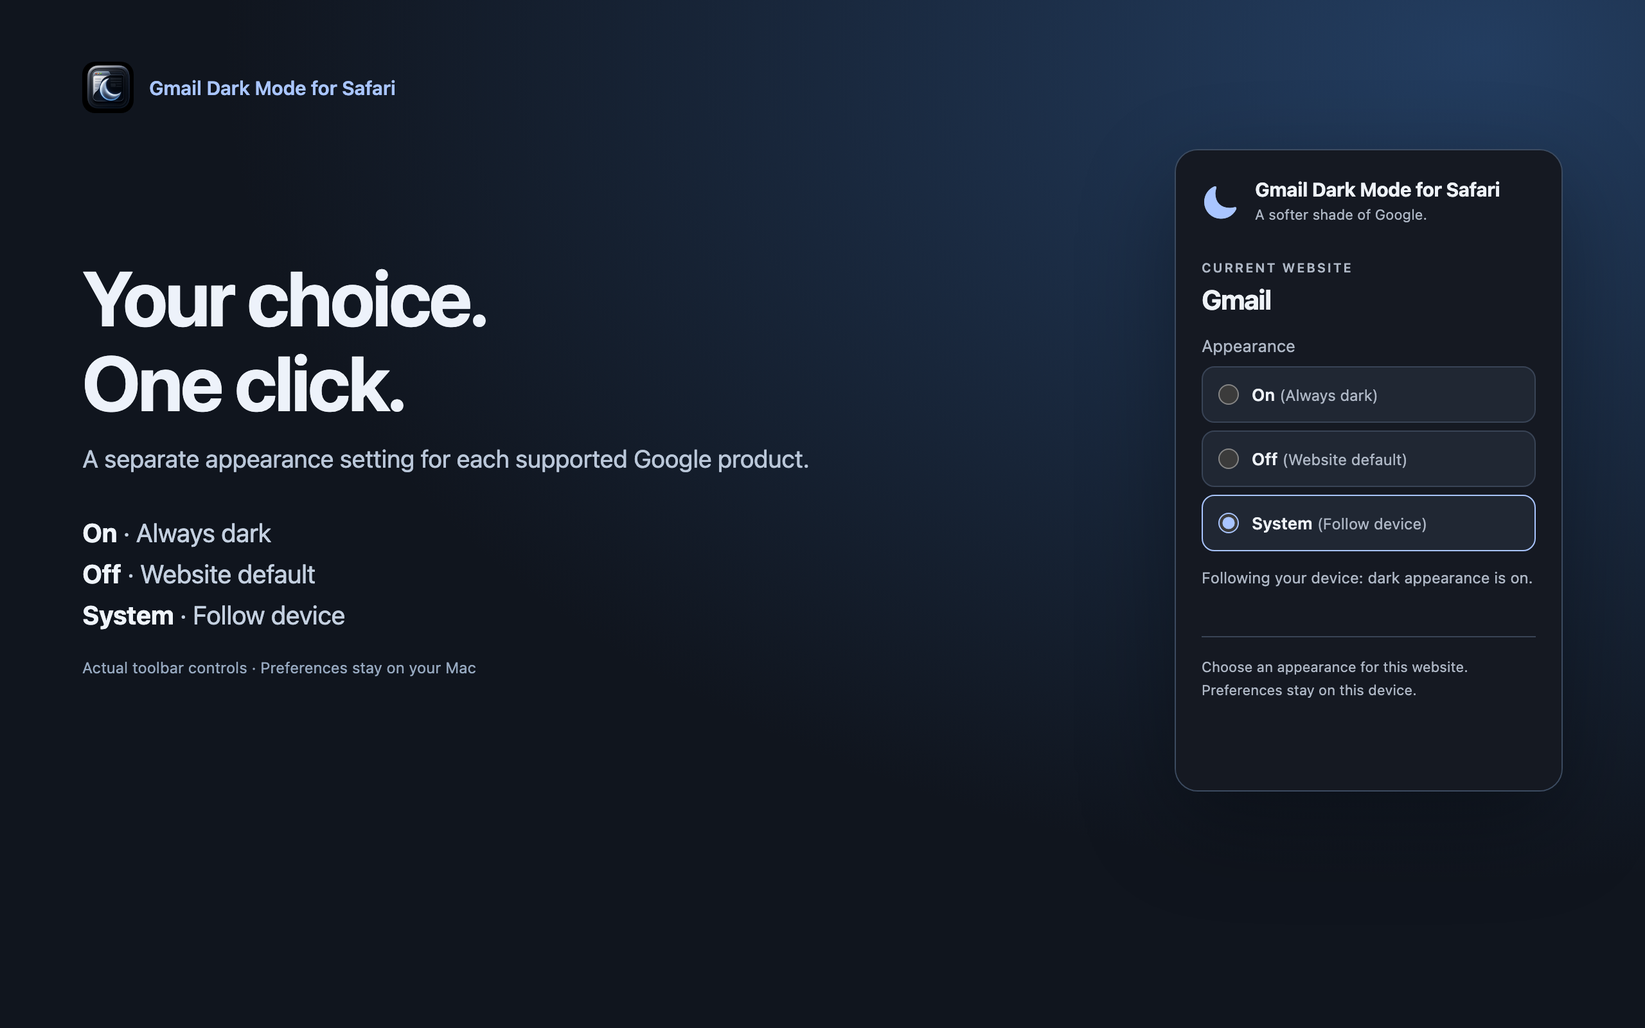
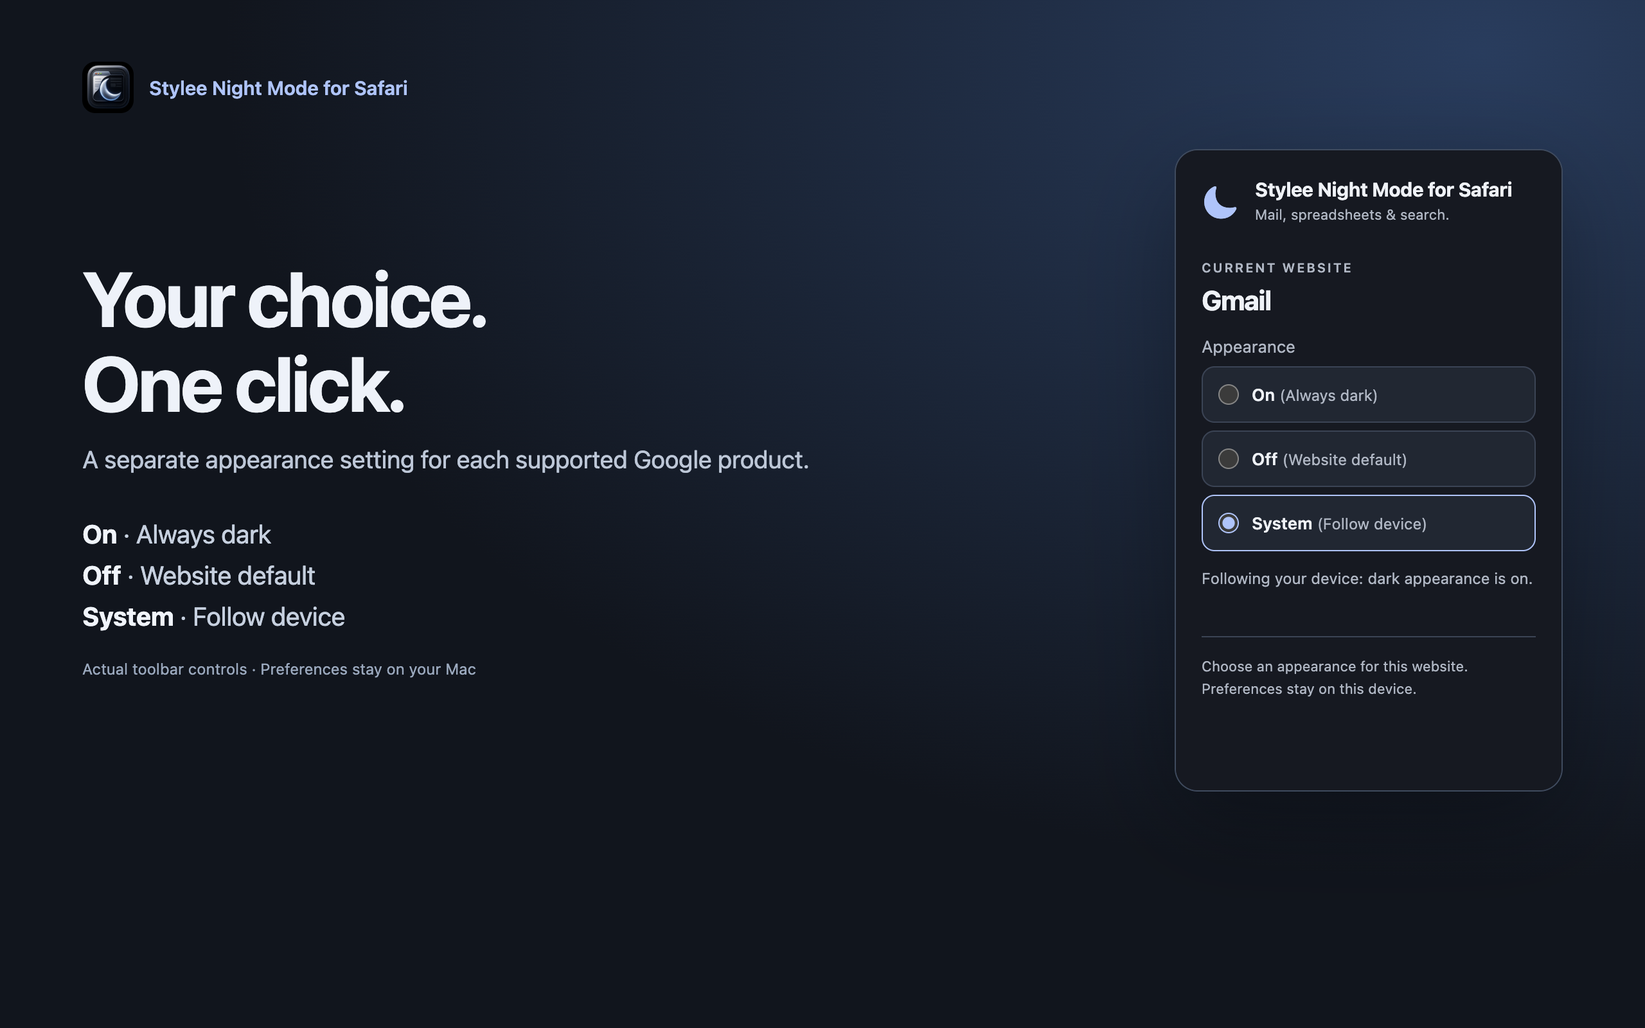
Rename app to Stylee Night Mode for Safari

diff --git a/site/index.html b/site/index.html
@@ -1,2 +1,2 @@
 <!doctype html>
-<html lang="en"><meta charset="utf-8"><meta name="viewport" content="width=device-width,initial-scale=1"><title>Gmail Dark Mode for Safari — Help & Support</title><meta name="description" content="Dark appearance for Gmail, Google Sheets, and Google Search in Safari. Setup, support, and privacy information."><link rel="stylesheet" href="style.css"><main><nav><a href="./">Help &amp; Support</a><a href="privacy.html">Privacy</a><a href="./#download">Download</a></nav><p class="eyebrow">For macOS · Free</p><h1>Gmail Dark Mode<br>for Safari</h1><p>A softer appearance for Gmail, Google Sheets, and Google Search.</p><section id="download" class="card" aria-labelledby="download-title"><h2 id="download-title">Get the extension</h2><p>Free for Mac. The public download will be available after release.</p><!-- APP_STORE_DOWNLOAD: Replace the disabled button with an anchor using the verified live App Store URL at release. See docs/support-deployment.md. --><button class="download-button" type="button" disabled aria-describedby="download-status">Coming soon on the Mac App Store</button><p id="download-status">Not available to download yet. Check back here for the App Store link.</p></section><h2>Get started</h2><ol><li>Install the app from the Mac App Store and open it.</li><li>Click <strong>Open Safari Extension Settings</strong>. In Safari Settings → Extensions, enable <strong>Gmail Dark Mode for Safari</strong>.</li><li>Allow website access for Gmail, Google Sheets, and Google Search. Safari may also request access to Google account/app-picker frames used inside these sites.</li><li>Reload any pages that were already open. Click the extension icon in Safari’s toolbar to choose an appearance.</li></ol><div class="card"><strong>On</strong> — Always dark.<br><strong>Off</strong> — Restore the website’s own appearance.<br><strong>System</strong> — Follow your Mac’s appearance setting.</div><p>Each supported product has its own choice. Off does not force a light theme. Preferences are stored on this Mac.</p><h2>What it changes</h2><p>Gmail’s inbox, message reading view, and compose window; Google Sheets’ controls and grid; and Google Search’s results and suggestions.</p><p>Message foreground and background colors are adjusted together. Photos and image-backed sections retain their original appearance. Some dark logos may remain dark. Sheets’ displayed colors change, while cell values and document formatting remain unchanged.</p><h2>Requirements</h2><p>macOS 26 or later and Safari 26 or later. This release supports these three Google products, not every website. A Google account is needed for Gmail and private spreadsheets.</p><h2>Troubleshooting</h2><p>If a page stays unchanged, check website access in Safari Settings → Extensions, then reload the page. If the toolbar popup cannot connect, try <strong>Retry connection</strong>, or open the site in a fresh tab. Use Off for a page whose original appearance you prefer.</p><p>To stop using the extension, disable it in Safari Settings → Extensions. Remove the containing app to uninstall it.</p><h2>Contact support</h2><p>Email <a href="mailto:hello@trystylee.com">hello@trystylee.com</a> with your macOS/Safari versions, the affected Google product, and steps to reproduce the issue. Please redact message contents, names, account details, and spreadsheet data from any screenshots.</p><footer>© 2026 Stylee, Inc. · <a href="mailto:hello@trystylee.com">hello@trystylee.com</a><p>Independent software. Not affiliated with or endorsed by Google or Apple. Gmail and Safari are trademarks of their respective owners.</p></footer></main></html>
+<html lang="en"><meta charset="utf-8"><meta name="viewport" content="width=device-width,initial-scale=1"><title>Stylee Night Mode for Safari — Help & Support</title><meta name="description" content="Dark appearance for Gmail, Google Sheets, and Google Search in Safari. Setup, support, and privacy information."><link rel="stylesheet" href="style.css"><main><nav><a href="./">Help &amp; Support</a><a href="privacy.html">Privacy</a><a href="./#download">Download</a></nav><p class="eyebrow">For macOS · Free</p><h1>Stylee Night Mode<br>for Safari</h1><p>A softer appearance for Gmail, Google Sheets, and Google Search.</p><section id="download" class="card" aria-labelledby="download-title"><h2 id="download-title">Get the extension</h2><p>Free for Mac. The public download will be available after release.</p><!-- APP_STORE_DOWNLOAD: Replace the disabled button with an anchor using the verified live App Store URL at release. See docs/support-deployment.md. --><button class="download-button" type="button" disabled aria-describedby="download-status">Coming soon on the Mac App Store</button><p id="download-status">Not available to download yet. Check back here for the App Store link.</p></section><h2>Get started</h2><ol><li>Install the app from the Mac App Store and open it.</li><li>Click <strong>Open Safari Extension Settings</strong>. In Safari Settings → Extensions, enable <strong>Stylee Night Mode for Safari</strong>.</li><li>Allow website access for Gmail, Google Sheets, and Google Search. Safari may also request access to Google account/app-picker frames used inside these sites.</li><li>Reload any pages that were already open. Click the extension icon in Safari’s toolbar to choose an appearance.</li></ol><div class="card"><strong>On</strong> — Always dark.<br><strong>Off</strong> — Restore the website’s own appearance.<br><strong>System</strong> — Follow your Mac’s appearance setting.</div><p>Each supported product has its own choice. Off does not force a light theme. Preferences are stored on this Mac.</p><h2>What it changes</h2><p>Gmail’s inbox, message reading view, and compose window; Google Sheets’ controls and grid; and Google Search’s results and suggestions.</p><p>Message foreground and background colors are adjusted together. Photos and image-backed sections retain their original appearance. Some dark logos may remain dark. Sheets’ displayed colors change, while cell values and document formatting remain unchanged.</p><h2>Requirements</h2><p>macOS 26 or later and Safari 26 or later. This release supports these three Google products, not every website. A Google account is needed for Gmail and private spreadsheets.</p><h2>Troubleshooting</h2><p>If a page stays unchanged, check website access in Safari Settings → Extensions, then reload the page. If the toolbar popup cannot connect, try <strong>Retry connection</strong>, or open the site in a fresh tab. Use Off for a page whose original appearance you prefer.</p><p>To stop using the extension, disable it in Safari Settings → Extensions. Remove the containing app to uninstall it.</p><h2>Contact support</h2><p>Email <a href="mailto:hello@trystylee.com">hello@trystylee.com</a> with your macOS/Safari versions, the affected Google product, and steps to reproduce the issue. Please redact message contents, names, account details, and spreadsheet data from any screenshots.</p><footer>© 2026 Stylee, Inc. · <a href="mailto:hello@trystylee.com">hello@trystylee.com</a><p>Independent software. Not affiliated with or endorsed by Google or Apple. Gmail and Safari are trademarks of their respective owners.</p></footer></main></html>

diff --git a/site/privacy.html b/site/privacy.html
@@ -1,2 +1,2 @@
 <!doctype html>
-<html lang="en"><meta charset="utf-8"><meta name="viewport" content="width=device-width,initial-scale=1"><title>Privacy — Gmail Dark Mode for Safari</title><meta name="description" content="Dark appearance for Gmail, Google Sheets, and Google Search in Safari. Setup, support, and privacy information."><link rel="stylesheet" href="style.css"><main><nav><a href="./">Help &amp; Support</a><a href="privacy.html">Privacy</a><a href="./#download">Download</a></nav><p class="eyebrow">Privacy policy · September 9, 2026</p><h1>Your browsing stays<br>on your Mac.</h1><p>Gmail Dark Mode for Safari is provided by Stylee, Inc. This policy explains how the app, extension, and support website handle information.</p><h2>The app and extension</h2><p>The app and extension do not collect or transmit browsing history, email contents, spreadsheet data, account details, analytics, or diagnostics. They do not include advertising, trackers, or remote executable code.</p><p>The extension works locally. It inspects page elements and their computed colors to change appearance. Gmail message text is not recorded or sent anywhere. Images and image-backed sections keep their original appearance.</p><h2>Preferences</h2><p>Your appearance choices are stored in Safari extension-local storage on this device. They are not sent to us or synced through a service operated by us. Choosing Off restores the website’s appearance. Uninstalling the app/extension removes the extension; Safari manages removal of its local data.</p><h2>Website permissions</h2><p>Access to Gmail, Google Sheets, and Google Search allows the extension to apply styles. Access to embedded Google account/app-picker frames is used only for supported pages. Standalone Google account pages are not restyled. The extension does not change your account, send mail, or edit spreadsheet values.</p><h2>This support website</h2><p>This static site uses no analytics, cookies, or tracking scripts. It is hosted on GitHub Pages. GitHub may process technical request information, such as IP addresses, under <a href="https://docs.github.com/en/site-policy/privacy-policies/github-general-privacy-statement">GitHub’s privacy statement</a>.</p><h2>When you contact us</h2><p>If you email support, we receive your email address and whatever you choose to include. We use that information to answer your request and investigate the issue. Please avoid sending private mailbox or spreadsheet contents. You may request deletion of support correspondence by emailing us.</p><h2>Other websites and services</h2><p>Google services and Apple’s App Store operate under their own privacy policies. This extension does not change those services’ data practices.</p><h2>Changes and contact</h2><p>We will update this page if our practices change. Questions or deletion requests: <a href="mailto:hello@trystylee.com">hello@trystylee.com</a>.</p><footer>© 2026 Stylee, Inc. · <a href="mailto:hello@trystylee.com">hello@trystylee.com</a><p>Independent software. Not affiliated with or endorsed by Google or Apple. Gmail and Safari are trademarks of their respective owners.</p></footer></main></html>
+<html lang="en"><meta charset="utf-8"><meta name="viewport" content="width=device-width,initial-scale=1"><title>Privacy — Stylee Night Mode for Safari</title><meta name="description" content="Dark appearance for Gmail, Google Sheets, and Google Search in Safari. Setup, support, and privacy information."><link rel="stylesheet" href="style.css"><main><nav><a href="./">Help &amp; Support</a><a href="privacy.html">Privacy</a><a href="./#download">Download</a></nav><p class="eyebrow">Privacy policy · September 9, 2026</p><h1>Your browsing stays<br>on your Mac.</h1><p>Stylee Night Mode for Safari is provided by Stylee, Inc. This policy explains how the app, extension, and support website handle information.</p><h2>The app and extension</h2><p>The app and extension do not collect or transmit browsing history, email contents, spreadsheet data, account details, analytics, or diagnostics. They do not include advertising, trackers, or remote executable code.</p><p>The extension works locally. It inspects page elements and their computed colors to change appearance. Gmail message text is not recorded or sent anywhere. Images and image-backed sections keep their original appearance.</p><h2>Preferences</h2><p>Your appearance choices are stored in Safari extension-local storage on this device. They are not sent to us or synced through a service operated by us. Choosing Off restores the website’s appearance. Uninstalling the app/extension removes the extension; Safari manages removal of its local data.</p><h2>Website permissions</h2><p>Access to Gmail, Google Sheets, and Google Search allows the extension to apply styles. Access to embedded Google account/app-picker frames is used only for supported pages. Standalone Google account pages are not restyled. The extension does not change your account, send mail, or edit spreadsheet values.</p><h2>This support website</h2><p>This static site uses no analytics, cookies, or tracking scripts. It is hosted on GitHub Pages. GitHub may process technical request information, such as IP addresses, under <a href="https://docs.github.com/en/site-policy/privacy-policies/github-general-privacy-statement">GitHub’s privacy statement</a>.</p><h2>When you contact us</h2><p>If you email support, we receive your email address and whatever you choose to include. We use that information to answer your request and investigate the issue. Please avoid sending private mailbox or spreadsheet contents. You may request deletion of support correspondence by emailing us.</p><h2>Other websites and services</h2><p>Google services and Apple’s App Store operate under their own privacy policies. This extension does not change those services’ data practices.</p><h2>Changes and contact</h2><p>We will update this page if our practices change. Questions or deletion requests: <a href="mailto:hello@trystylee.com">hello@trystylee.com</a>.</p><footer>© 2026 Stylee, Inc. · <a href="mailto:hello@trystylee.com">hello@trystylee.com</a><p>Independent software. Not affiliated with or endorsed by Google or Apple. Gmail and Safari are trademarks of their respective owners.</p></footer></main></html>

diff --git a/docs/store/preview.html b/docs/store/preview.html
@@ -1,6 +1,6 @@
 <!doctype html><html lang="en"><meta charset="utf-8"><meta name="viewport" content="width=device-width"><title>Store previews — sample content</title>
 <style>*{box-sizing:border-box}body{margin:0;background:#10151e;color:#edf2fa;font-family:-apple-system,BlinkMacSystemFont,Arial,sans-serif}.page{padding:48px 64px;height:800px;background:radial-gradient(ellipse at 90% 5%,#233d60,transparent 60%)}.brand{display:flex;align-items:center;gap:12px;font-size:15px;font-weight:600;color:#a9c5ff}.brand img{width:40px;height:40px;border-radius:10px}h1{font-size:48px;line-height:1.1;letter-spacing:-1.8px;margin:24px 0 12px}p{color:#bac7d9;font-size:19px;line-height:1.5;margin:0}iframe{border:1px solid #3c4b60;border-radius:18px;width:100%;height:462px;margin-top:28px;background:#202733;box-shadow:0 25px 75px #0005}.caption{font-size:12px;color:#97a9c0;margin-top:16px}.split{display:grid;grid-template-columns:1fr 350px;gap:48px;align-items:center}.split iframe{height:500px;width:302px;justify-self:end}.split h1{font-size:60px}.bullet{margin-top:28px;font-size:20px;line-height:1.6;color:#c4d0e0}strong{color:#eff4fb}</style>
-<div class="page"><div class="brand"><img src="../../extension/icons/icon-128.png">Gmail Dark Mode for Safari</div><div id="layout"><h1 id="headline"></h1><p id="subtitle"></p><iframe id="demo" title="Extension styling with sample content"></iframe><p class="caption" id="caption">Sample content · Rendered with the extension’s styles</p></div></div>
+<div class="page"><div class="brand"><img src="../../extension/icons/icon-128.png">Stylee Night Mode for Safari</div><div id="layout"><h1 id="headline"></h1><p id="subtitle"></p><iframe id="demo" title="Extension styling with sample content"></iframe><p class="caption" id="caption">Sample content · Rendered with the extension’s styles</p></div></div>
 <script>
 const view=new URLSearchParams(location.search).get('view')||'gmail';
 const demo=document.querySelector('#demo');

diff --git a/Safari Dark Mode/Safari Dark Mode/ViewController.swift b/Safari Dark Mode/Safari Dark Mode/ViewController.swift
@@ -19,7 +19,7 @@ final class ViewController: NSViewController {
         super.viewDidLoad()
 
         let icon = NSImageView(image: NSImage(named: NSImage.applicationIconName) ?? NSImage())
-        let title = NSTextField(labelWithString: "Gmail Dark Mode for Safari")
+        let title = NSTextField(labelWithString: "Stylee Night Mode for Safari")
         title.font = .systemFont(ofSize: 23, weight: .semibold)
         let detail = NSTextField(wrappingLabelWithString:
             "A softer shade of Gmail, Google Search, and Sheets.\nChoose On, Off, or System in Safari’s toolbar popup.")
@@ -88,11 +88,11 @@ final class ViewController: NSViewController {
                     self.showUnknownStatus()
                 } else if state?.isEnabled == true {
                     self.showStatus(title: "Extension enabled", symbol: "checkmark.circle.fill", color: .systemGreen,
-                                    guidance: "To manage website access, open Safari Settings, then choose\nWebsites → Gmail Dark Mode for Safari.",
+                                    guidance: "To manage website access, open Safari Settings, then choose\nWebsites → Stylee Night Mode for Safari.",
                                     action: "Go to Settings…")
                 } else {
                     self.showStatus(title: "Turn on the extension", symbol: "power.circle", color: .secondaryLabelColor,
-                                    guidance: "Enable Gmail Dark Mode for Safari in Settings > Extensions,\nthen allow Gmail, Google Sheets, and Google Search.",
+                                    guidance: "Enable Stylee Night Mode for Safari in Settings > Extensions,\nthen allow Gmail, Google Sheets, and Google Search.",
                                     action: "Enable in Safari Settings…")
                 }
             }

diff --git a/Safari Dark Mode/Safari Dark Mode Extension/Resources/popup/popup.html b/Safari Dark Mode/Safari Dark Mode Extension/Resources/popup/popup.html
@@ -4,13 +4,13 @@
     <meta charset="utf-8">
     <meta name="viewport" content="width=device-width, initial-scale=1">
     <link rel="stylesheet" href="popup.css">
-    <title>Gmail Dark Mode for Safari</title>
+    <title>Stylee Night Mode for Safari</title>
   </head>
   <body>
     <main>
       <header>
         <span class="moon" aria-hidden="true">☾</span>
-        <div><h1>Gmail Dark Mode for Safari</h1><p class="subtitle">A softer shade of Google.</p></div>
+        <div><h1>Stylee Night Mode for Safari</h1><p class="subtitle">Mail, spreadsheets &amp; search.</p></div>
       </header>
       <p class="eyebrow">CURRENT WEBSITE</p>
       <h2 id="site-label">Checking this page…</h2>

diff --git a/extension/popup/popup.html b/extension/popup/popup.html
@@ -4,13 +4,13 @@
     <meta charset="utf-8">
     <meta name="viewport" content="width=device-width, initial-scale=1">
     <link rel="stylesheet" href="popup.css">
-    <title>Gmail Dark Mode for Safari</title>
+    <title>Stylee Night Mode for Safari</title>
   </head>
   <body>
     <main>
       <header>
         <span class="moon" aria-hidden="true">☾</span>
-        <div><h1>Gmail Dark Mode for Safari</h1><p class="subtitle">A softer shade of Google.</p></div>
+        <div><h1>Stylee Night Mode for Safari</h1><p class="subtitle">Mail, spreadsheets &amp; search.</p></div>
       </header>
       <p class="eyebrow">CURRENT WEBSITE</p>
       <h2 id="site-label">Checking this page…</h2>

diff --git a/docs/app-store-release-plan.md b/docs/app-store-release-plan.md
@@ -1,8 +1,27 @@
 # Mac App Store release
 
-Updated 10 September 2026. Submitted build: **1.0.0 (22)** — **WAITING_FOR_REVIEW**.
+Updated 20 September 2026. Submitted build: **1.0.0 (22)** — **REJECTED**; review submission has **UNRESOLVED_ISSUES**.
 
 ## Current remaining work
+
+Naming update, 20 September 2026: the owner replied to App Review asking for
+clarification. Pending that response, remove Gmail from the public app/extension
+name and remove Google product branding from the subtitle, retaining "for Safari".
+Descriptions and setup instructions continue to identify the supported websites.
+Source build 23 incorporates this rename and the merged PR #1/#2 fixes; submitted
+Build 22 retains its original name and contents. No new submission or public
+release is authorized by this naming update. Internal identifiers and support URLs
+remain stable. App Store Connect accepted the name "Stylee Night Mode for Safari"
+and subtitle "Mail, spreadsheets & search"; the shorter Dark Mode and Night Mode
+names were unavailable. All four renamed listing screenshots were uploaded and
+finished processing. The review submission remains unresolved with Build 22
+attached; no new binary was uploaded or submitted.
+
+Rename validation: all 14 Node regressions, resource synchronization, metadata
+length checks, and all four 2560×1600 listing screenshot checks pass. The final
+renamed native build is blocked by Xcode requiring acceptance of its updated
+license; the earlier Debug build used the provisional name. Complete that local
+setup step and rebuild before any new TestFlight or App Store upload.
 
 Source update, 11 September 2026 (not included in submitted Build 22): Sheets
 matching now includes the exact `/spreadsheets` home URL, including query
@@ -22,7 +41,7 @@ Off/System restoration, with screenshots and computed colors inspected. Packaged
 resources are synchronized; this CSS update has not been installed as a new
 binary or included in Build 22. Other Google markup variants remain unverified.
 
-- Build 22 is WAITING_FOR_REVIEW with manual release after approval.
+- Build 22 was rejected on 15 September under Guideline 4.1(c) for Gmail/Google branding in the name and subtitle. Manual release remains selected.
 - Native source and submitted Build 22 use the Stylee support/privacy URLs.
 - Build 22 includes the verified Google account switcher, Gmail Trash notice, and
   advanced-search fixes. Reload-flash behavior remains unchanged because no
@@ -34,7 +53,8 @@ emails use the support address; recovery repositories remain private and archive
 
 ## Approved launch decisions
 
-- Public name: **Gmail Dark Mode for Safari**.
+- Public name: **Stylee Night Mode for Safari** (Safari compatibility wording pending App Review clarification).
+- App Store subtitle: **Mail, spreadsheets & search**.
 - Publisher: **Stylee, Inc.**, using its existing developer membership.
 - Price: **Free**. Separate app record and stable extension-project bundle IDs.
 - Support: **hello@trystylee.com**.

diff --git a/README.md b/README.md
@@ -1,4 +1,4 @@
-# Gmail Dark Mode for Safari
+# Stylee Night Mode for Safari
 
 Safari Web Extension that applies a focused dark theme to:
 
@@ -30,7 +30,7 @@ xcodebuild -project "Safari Dark Mode/Safari Dark Mode.xcodeproj" \
 open "build/DerivedData/Build/Products/Debug/Safari Dark Mode.app"
 ```
 
-Then enable **Gmail Dark Mode for Safari** in **Safari > Settings > Extensions** and
+Then enable **Stylee Night Mode for Safari** in **Safari > Settings > Extensions** and
 allow access to the supported Google sites. Reload existing Google tabs after
 installing or updating. Check the current Safari profile if an enabled extension
 does not appear in a window.

diff --git a/AGENTS.md b/AGENTS.md
@@ -107,7 +107,7 @@ do not require syncing unchanged resources, launching Safari, or building Xcode.
 
 ## App Store releases
 
-- Public name: Gmail Dark Mode for Safari; publisher Stylee, Inc.; support
+- Public name: Stylee Night Mode for Safari; publisher Stylee, Inc.; support
   hello@trystylee.com. Keep internal project and bundle identifiers stable.
 - Use `scripts/archive-release.sh` with `SDM_DEVELOPMENT_TEAM` supplied in the
   environment. Never put team IDs, API credentials, or signing artifacts in docs.

diff --git a/SECURITY.md b/SECURITY.md
@@ -1,6 +1,6 @@
 # Security
 
-Gmail Dark Mode for Safari is a Safari Web Extension. Keep the permission and
+Stylee Night Mode for Safari is a Safari Web Extension. Keep the permission and
 data surfaces narrow.
 
 ## Data handling
